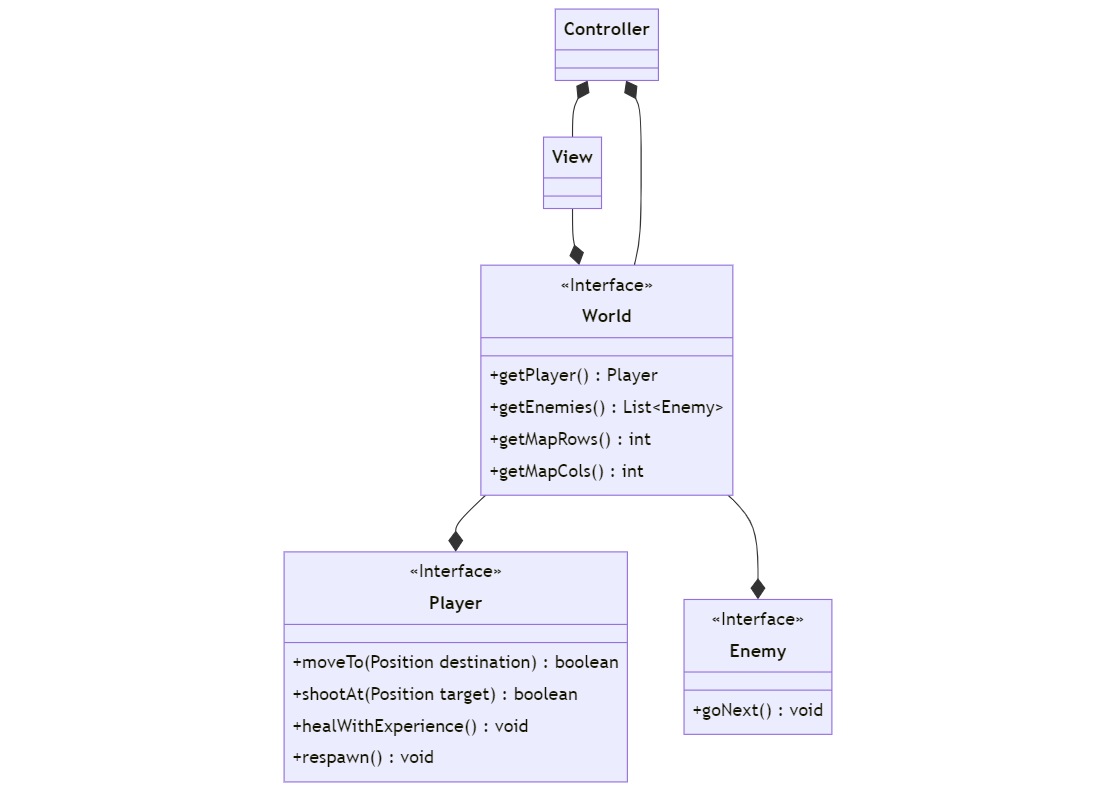
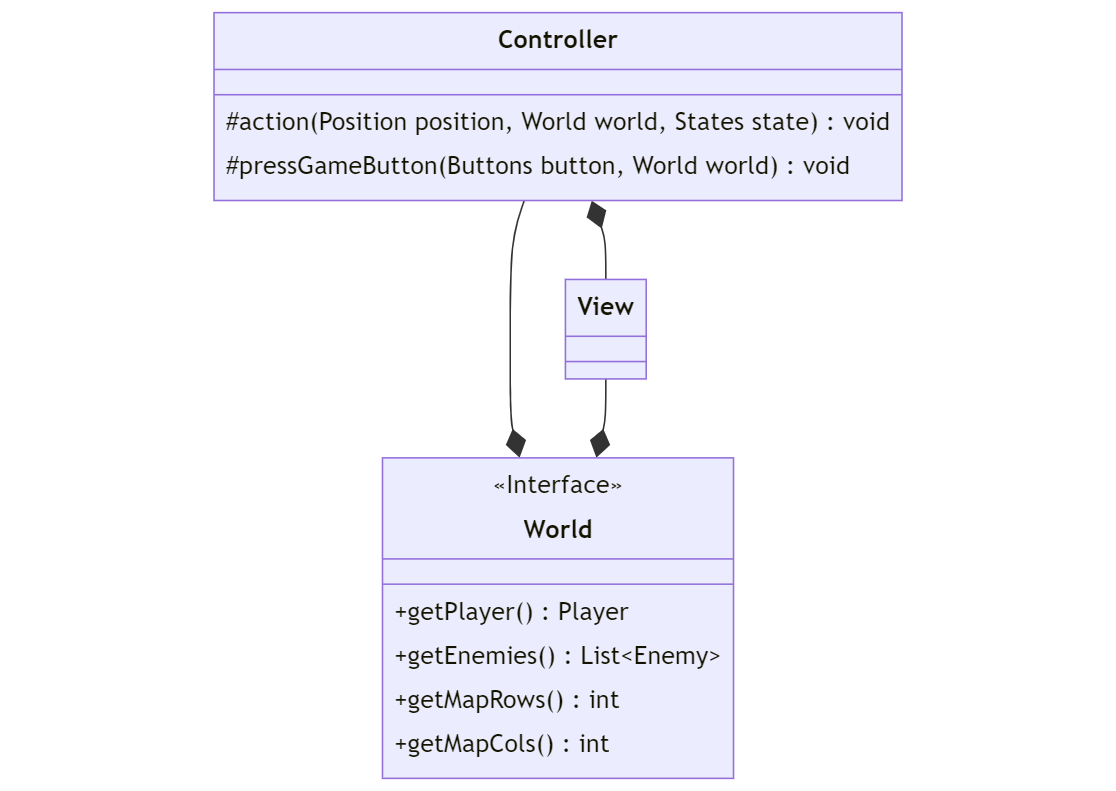
Added Analysis and Architecture UML

diff --git a/report/report.tex b/report/report.tex
@@ -79,6 +79,13 @@ I nemici devono anche sparare al giocatore, se questo entra nel raggio dell'arma
 %
 I nemici non seguono il giocatore se cambia sezione.
 
+\begin{figure}[H]
+	\centering{}
+	\includegraphics[width=\textwidth]{img/Analysis.png}
+	\caption{Schema UML dell'analisi del progetto}
+	\label{img:Analysis}
+\end{figure}
+
 \chapter{Design}
 
 \section{Architettura}
